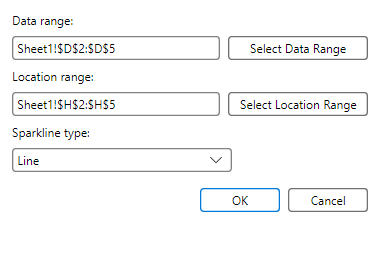
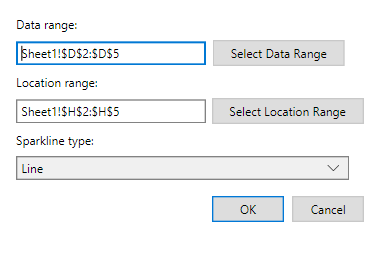
fix(freex): align Avalonia sparkline dialog visual

Changed region(s): [[0.0289, 0.0571, 0.9842, 0.8]]

diff --git a/src/FreeX.App.Avalonia/MainWindow.Sparklines.cs b/src/FreeX.App.Avalonia/MainWindow.Sparklines.cs
@@ -69,7 +69,7 @@ public sealed partial class MainWindow
 
         var dataRangeBox = new TextBox
         {
-            MinWidth = 220,
+            Width = 190,
             Text = initialDataRangeText ?? (selection.CellCount > 1 ? FormatRangeReference(selection) : string.Empty),
         };
         ApplySparklineTextBoxChrome(dataRangeBox);
@@ -77,24 +77,25 @@ public sealed partial class MainWindow
         AutomationProperties.SetName(dataRangeBox, UiText.Get("Sparkline_DataRange"));
 
         // Windows shows a range-picker button to the right of each range field.
-        var selectDataRangeButton = new Button { Content = UiText.Get("Sparkline_SelectDataRange"), MinWidth = 140 };
-        ApplySparklineButtonChrome(selectDataRangeButton, 140);
+        var selectDataRangeButton = new Button { Content = UiText.Get("Sparkline_SelectDataRange"), Width = 132 };
+        ApplySparklineButtonChrome(selectDataRangeButton, 132);
         AutomationProperties.SetAutomationId(selectDataRangeButton, "SparklineSelectDataRangeButton");
 
         var locationBox = new TextBox
         {
-            MinWidth = 220,
+            Width = 190,
             Text = initialLocationText ?? FormatCellReference(_session.ActiveCell),
         };
         ApplySparklineTextBoxChrome(locationBox);
         AutomationProperties.SetAutomationId(locationBox, "SparklineLocationRangeBox");
         AutomationProperties.SetName(locationBox, UiText.Get("Sparkline_LocationRange"));
 
-        var selectLocationRangeButton = new Button { Content = UiText.Get("Sparkline_SelectLocationRange"), MinWidth = 140 };
-        ApplySparklineButtonChrome(selectLocationRangeButton, 140);
+        var selectLocationRangeButton = new Button { Content = UiText.Get("Sparkline_SelectLocationRange"), Width = 152 };
+        ApplySparklineButtonChrome(selectLocationRangeButton, 152);
         AutomationProperties.SetAutomationId(selectLocationRangeButton, "SparklineSelectLocationRangeButton");
 
         var typeBox = BuildKindComboBox("SparklineTypeBox", kind);
+        typeBox.Width = 333;
         ApplySparklineComboBoxChrome(typeBox);
 
         // Explicit Width+Height (rather than SizeToContent.WidthAndHeight) keeps the dialog as compact as
@@ -114,11 +115,11 @@ public sealed partial class MainWindow
         };
         AutomationProperties.SetAutomationId(dialog, "InsertSparklineDialog");
 
-        var ok = new Button { Content = UiText.Get("Common_Ok"), IsDefault = true, MinWidth = 80 };
-        ApplySparklineButtonChrome(ok, 80, isDefault: true);
+        var ok = new Button { Content = UiText.Get("Common_Ok"), IsDefault = true, Width = 72 };
+        ApplySparklineButtonChrome(ok, 72, isDefault: true);
         AutomationProperties.SetAutomationId(ok, "InsertSparklineOkButton");
-        var cancel = new Button { Content = UiText.Get("Common_Cancel"), IsCancel = true, MinWidth = 80 };
-        ApplySparklineButtonChrome(cancel, 80);
+        var cancel = new Button { Content = UiText.Get("Common_Cancel"), IsCancel = true, Width = 72 };
+        ApplySparklineButtonChrome(cancel, 72);
         AutomationProperties.SetAutomationId(cancel, "InsertSparklineCancelButton");
         cancel.Click += (_, _) => dialog.Close(false);
         ok.Click += (_, _) =>
@@ -144,7 +145,7 @@ public sealed partial class MainWindow
             }
         };
 
-        var content = new StackPanel { Spacing = 8, Margin = new Thickness(12) };
+        var content = new StackPanel { Spacing = 8, Margin = new Thickness(16) };
         content.Children.Add(new TextBlock { Text = StripDisplayMnemonic(UiText.Get("Sparkline_DataRange")), Foreground = HeaderForeground, FontSize = 12, FontFamily = FormulaBarFontFamily });
         content.Children.Add(BuildSparklineRangeRow(dataRangeBox, selectDataRangeButton));
         content.Children.Add(new TextBlock { Text = StripDisplayMnemonic(UiText.Get("Sparkline_LocationRange")), Foreground = HeaderForeground, FontSize = 12, FontFamily = FormulaBarFontFamily });
@@ -368,12 +369,11 @@ public sealed partial class MainWindow
         {
             ColumnDefinitions =
             {
-                new ColumnDefinition { Width = GridLength.Star },
+                new ColumnDefinition { Width = new GridLength(190) },
                 new ColumnDefinition { Width = GridLength.Auto },
             },
         };
-        rangeBox.MinWidth = 200;
-        pickerButton.Margin = new Thickness(8, 0, 0, 0);
+        pickerButton.Margin = new Thickness(6, 0, 0, 0);
         Grid.SetColumn(rangeBox, 0);
         Grid.SetColumn(pickerButton, 1);
         row.Children.Add(rangeBox);
@@ -401,12 +401,19 @@ public sealed partial class MainWindow
     private static void ApplySparklineButtonChrome(Button button, double width, bool isDefault = false)
     {
         button.Width = width;
+        button.CornerRadius = new CornerRadius(0);
         AvaloniaCompactDialogChrome.ApplyButton(button, SparklineDialogChromeStyle, width, isDefault);
     }
 
     private static void ApplySparklineTextBoxChrome(TextBox textBox)
-        => AvaloniaCompactDialogChrome.ApplyTextBox(textBox, SparklineDialogChromeStyle);
+    {
+        textBox.CornerRadius = new CornerRadius(0);
+        AvaloniaCompactDialogChrome.ApplyTextBox(textBox, SparklineDialogChromeStyle);
+    }
 
     private static void ApplySparklineComboBoxChrome(ComboBox comboBox)
-        => AvaloniaCompactDialogChrome.ApplyComboBox(comboBox, SparklineDialogChromeStyle);
+    {
+        comboBox.CornerRadius = new CornerRadius(0);
+        AvaloniaCompactDialogChrome.ApplyComboBox(comboBox, SparklineDialogChromeStyle);
+    }
 }

diff --git a/tests/FreeX.App.Avalonia.Tests/AvaloniaCompactDialogChromeClusterASourceTests.cs b/tests/FreeX.App.Avalonia.Tests/AvaloniaCompactDialogChromeClusterASourceTests.cs
@@ -52,6 +52,15 @@ public sealed class AvaloniaCompactDialogChromeClusterASourceTests
         sparklineSource.Should().Contain("AvaloniaCompactDialogChrome.ApplyButton(button, SparklineDialogChromeStyle, width, isDefault);");
         sparklineSource.Should().Contain("AvaloniaCompactDialogChrome.ApplyTextBox(textBox, SparklineDialogChromeStyle);");
         sparklineSource.Should().Contain("AvaloniaCompactDialogChrome.ApplyComboBox(comboBox, SparklineDialogChromeStyle);");
+        sparklineSource.Should().Contain("Width = 190,");
+        sparklineSource.Should().Contain("ApplySparklineButtonChrome(selectDataRangeButton, 132);");
+        sparklineSource.Should().Contain("ApplySparklineButtonChrome(selectLocationRangeButton, 152);");
+        sparklineSource.Should().Contain("typeBox.Width = 333;");
+        sparklineSource.Should().Contain("ApplySparklineButtonChrome(ok, 72, isDefault: true);");
+        sparklineSource.Should().Contain("ApplySparklineButtonChrome(cancel, 72);");
+        sparklineSource.Should().Contain("button.CornerRadius = new CornerRadius(0);");
+        sparklineSource.Should().Contain("textBox.CornerRadius = new CornerRadius(0);");
+        sparklineSource.Should().Contain("comboBox.CornerRadius = new CornerRadius(0);");
 
         textToColumnsSource.Should().Contain("using Free.Shared.Shell.Avalonia;");
         textToColumnsSource.Should().Contain("AvaloniaCompactDialogChrome.CreateActionRow(");

diff --git a/docs/parity/dialog-visual-evidence-summary.md b/docs/parity/dialog-visual-evidence-summary.md
@@ -63,7 +63,6 @@ Outliers are ranked by a deterministic triage score: normalized 32x32 ARGB sampl
 | Surface id | WPF logical size | Avalonia logical size | Raw PNG sizes | Bucket | Evidence flag | Score | Sample delta | Luma delta | Non-bg delta |
 | --- | ---: | ---: | --- | --- | --- | ---: | ---: | ---: | ---: |
 | dialog.PrintPreview | 1120x700 | 1120x700 | 1120x700 px @ 96 DPI vs 1120x700 px @ 96 DPI |  |  | 0.378 | 0.126 | 0.061 | 0.191 |
-| dialog.Sparkline | 380x280 | 380x280 | 380x280 px @ 96 DPI vs 380x280 px @ 96 DPI |  |  | 0.187 | 0.054 | 0.016 | 0.117 |
 | dialog.AllowEditRanges | 430x360 | 430x360 | 645x540 px @ 144 DPI vs 430x360 px @ 96 DPI |  |  | 0.187 | 0.039 | 0.002 | 0.145 |
 | dialog.FormatCells.Border | 620x597 | 620x597 | 620x597 px @ 96 DPI vs 620x597 px @ 96 DPI |  |  | 0.186 | 0.048 | 0.025 | 0.112 |
 | dialog.ConditionalFormatNewRule | 634x334 | 634x334 | 634x334 px @ 96 DPI vs 634x334 px @ 96 DPI |  |  | 0.176 | 0.053 | 0.014 | 0.109 |
@@ -72,6 +71,7 @@ Outliers are ranked by a deterministic triage score: normalized 32x32 ARGB sampl
 | dialog.Options.QuickAccessToolbar | 744x521 | 744x521 | 744x521 px @ 96 DPI vs 744x521 px @ 96 DPI |  |  | 0.139 | 0.021 | 0.018 | 0.101 |
 | dialog.PageSetup.HeaderFooter | 600x560 | 600x560 | 600x560 px @ 96 DPI vs 600x560 px @ 96 DPI |  |  | 0.127 | 0.040 | 0.012 | 0.076 |
 | dialog.Consolidate | 380x420 | 380x420 | 570x630 px @ 144 DPI vs 380x420 px @ 96 DPI |  |  | 0.126 | 0.032 | 0.011 | 0.083 |
+| dialog.PivotTableOptions.Data | 520x500 | 520x500 | 520x500 px @ 96 DPI vs 520x500 px @ 96 DPI |  |  | 0.125 | 0.035 | 0.015 | 0.074 |
 
 ## Scale-Aware Dimension Mismatch Details
 
@@ -174,7 +174,7 @@ These rows have a DPI-normalized checked-in PNG size that disagrees with the dia
 | dialog.ShapeGradient | dialog.ShapeGradient.png | 500x300 | 500x300 px @ 96 DPI | True | dialog.ShapeGradient.png | 500x300 | 500x300 px @ 96 DPI | True | True | 0.082 |
 | dialog.Sort | dialog.Sort.png | 760x500 | 760x500 px @ 96 DPI | True | dialog.Sort.png | 760x500 | 760x500 px @ 96 DPI | True | True | 0.042 |
 | dialog.SortOptions | dialog.SortOptions.png | 330x260 | 495x390 px @ 144 DPI | True | dialog.SortOptions.png | 330x260 | 330x260 px @ 96 DPI | True | True | 0.111 |
-| dialog.Sparkline | dialog.Sparkline.png | 380x280 | 380x280 px @ 96 DPI | True | dialog.Sparkline.png | 380x280 | 380x280 px @ 96 DPI | True | True | 0.187 |
+| dialog.Sparkline | dialog.Sparkline.png | 380x280 | 380x280 px @ 96 DPI | True | dialog.Sparkline.png | 380x280 | 380x280 px @ 96 DPI | True | True | 0.077 |
 | dialog.Subtotal | dialog.Subtotal.png | 380x390 | 570x585 px @ 144 DPI | True | dialog.Subtotal.png | 380x390 | 380x390 px @ 96 DPI | True | True | 0.166 |
 | dialog.SymbolPicker | dialog.SymbolPicker.png | 840x620 | 840x620 px @ 96 DPI | True | dialog.SymbolPicker.png | 840x620 | 840x620 px @ 96 DPI | True | True | 0.036 |
 | dialog.TextToColumns | dialog.TextToColumns.png | 500x430 | 750x645 px @ 144 DPI | True | dialog.TextToColumns.png | 500x430 | 500x430 px @ 96 DPI | True | True | 0.089 |
